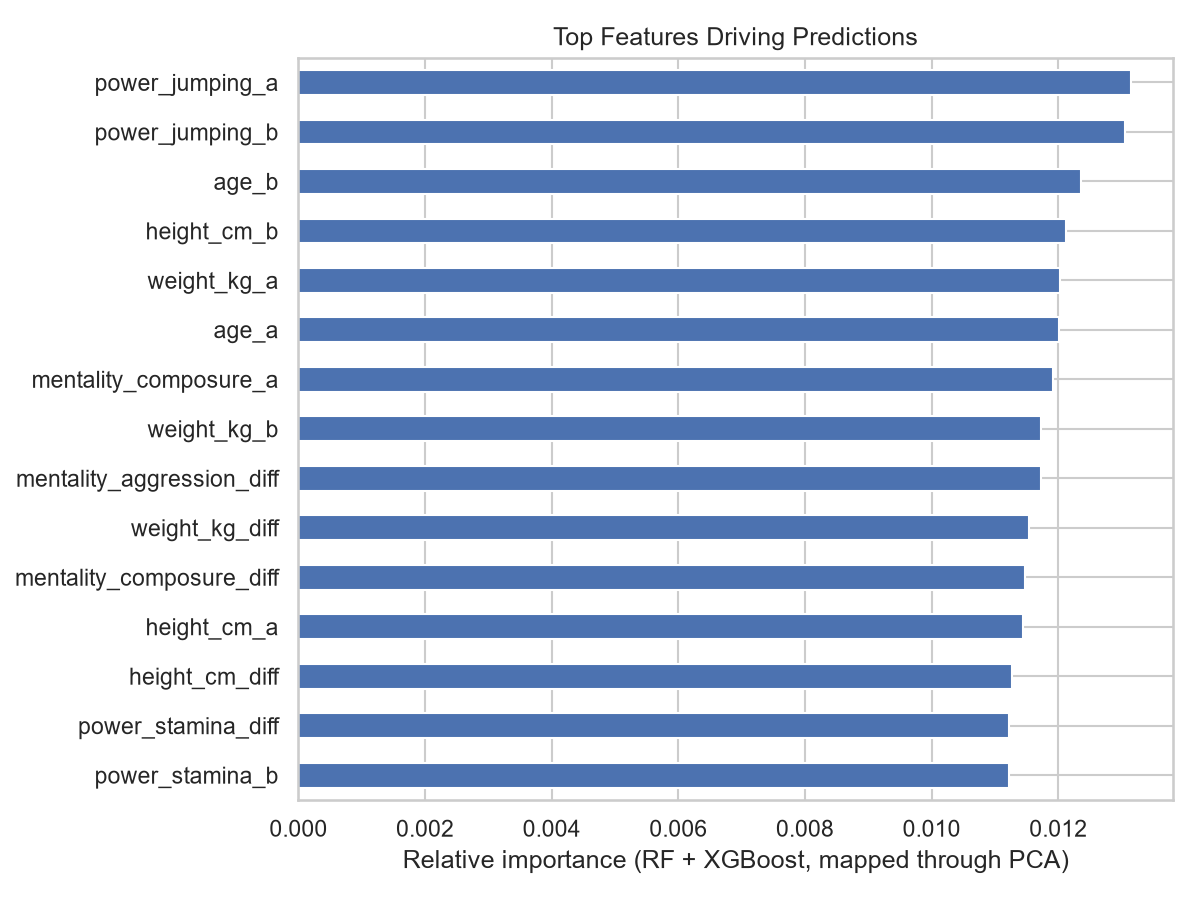
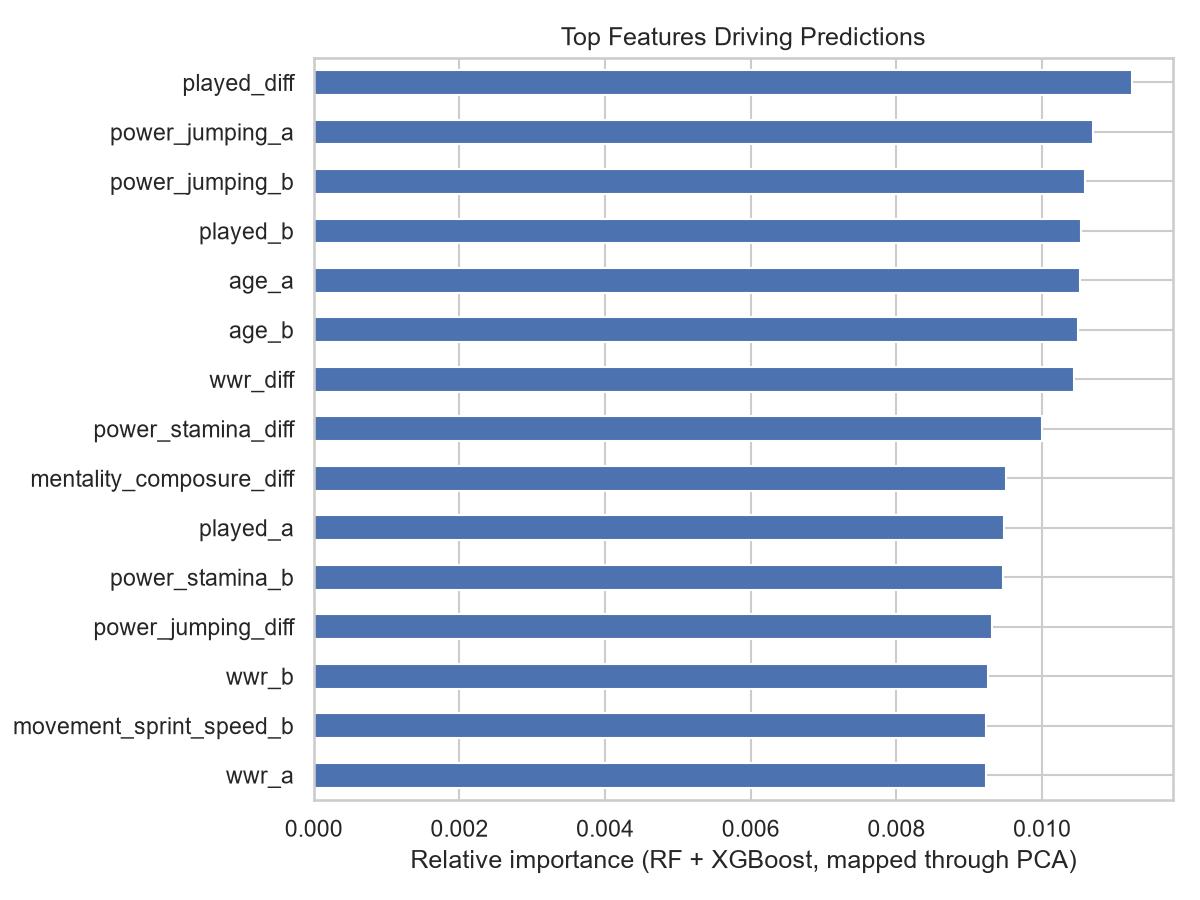
Update README, CLAUDE.md and figures for the new results
Numbers the previous commit invalidated: ensemble 75.5% -> 78.5% +/- 2.0%
against the baseline's 74.8%, ahead on 5 of 5 seeds rather than 2; feature
count 111 -> 130; 2026 bracket 73.3% -> 76.7%; McNemar now 1 of 5 seeds
under p<0.05 rather than none.

The README gains a "How it got there" section recording what each of the
three changes was worth on its own, including the one that did not work --
mirroring every training row rather than only the neutral-venue ones.
Figures regenerated; the history features show up in the importance chart.

The two forward predictions flipped with the new features: England for
third place (56%) and Spain over Argentina in the final (54%). Both were
coin flips before and still are.

CLAUDE.md documents the two constraints that are easy to break silently:
mirroring must stay restricted to neutral rows and must happen after the
split, and history features must stay as-of-date -- including not reusing
the pipeline's final HistoryState to score historical fixtures.

diff --git a/README.md b/README.md
@@ -160,7 +160,8 @@ safe to re-run.
 - [x] Repo scaffolding
 - [x] Data collection (real Kaggle datasets connected: player attributes 2015–2025 — FIFA 15–23,
   EA FC 24 from the same author, EA FC 25 mapped via `src/data/adapters.py` — match history 1872–present)
-- [x] Feature engineering (1749 team-year profiles, 111 raw features -> 26–27 PCA components at 95% variance, depending on the split)
+- [x] Feature engineering (1749 team-year profiles, 130 raw features -> ~30 PCA components at 95% variance, depending on the split):
+  111 squad-attribute columns, 18 as-of-date match-history columns (`src/features/history_features.py`), and a neutral-venue flag
 - [x] Baseline (WWR) — fit on full World Cup history (finals + qualifiers), test-leakage safe
 - [x] Ensemble models — 5-model majority vote, trained end-to-end on real data (1495 usable matches)
 - [x] Evaluation — accuracy, high/low-scoring split, challenging cases, validated across 5 random seeds
@@ -170,18 +171,55 @@ safe to re-run.
 - [x] Web app (Phase 8) — FastAPI backend (`api/`) + React frontend (`frontend/`): live team-vs-team prediction and an interactive results dashboard
 
 **Latest results** (1495 World Cup matches incl. qualifiers, 5-seed average): ensemble
-75.5% ± 2.5% overall accuracy vs. baseline 74.8% ± 2.8% — see `outputs/figures/`.
-The ensemble is ahead on only 2 of the 5 seeds; per-seed margins range from -2.3 to +4.3 points,
-so the mean advantage rests on two good seeds rather than a consistent edge.
+**78.5% ± 2.0%** overall accuracy vs. baseline 74.8% ± 2.8% — see `outputs/figures/`.
+The ensemble finishes ahead on all 5 seeds, by between 1.7 and 6.7 points.
 Run `python -m src.pipeline` to reproduce, or `python -m src.make_figures` to
 regenerate the figures.
+
+#### How it got there
+
+The ensemble originally scored 75.5% ± 2.5% against the baseline's 74.8% — ahead on only
+2 of 5 seeds, and behind on the seed the API serves. The two models were built on disjoint
+information: the ensemble knew squads and nothing about results, the baseline knew results
+and nothing about squads. They disagreed on about a third of matches, and on the matches the
+baseline got wrong the ensemble was right 44% of the time — a perfect router between the two
+would have scored 85.9%. The ensemble had simply never been given what the baseline knows.
+
+Three changes, each measured on its own across all 5 seeds:
+
+| | accuracy | margin over baseline | seeds ahead |
+|---|---|---|---|
+| Starting point | 75.5% ± 2.5% | +0.7 pp | 2 / 5 |
+| \+ `neutral_site` feature | 76.3% ± 2.3% | +1.5 pp | 3 / 5 |
+| \+ as-of-date history features | 78.1% ± 3.0% | +3.3 pp | 4 / 5 |
+| \+ neutral-only row mirroring | **78.5% ± 2.0%** | **+3.7 pp** | **5 / 5** |
+
+- **History features** (`src/features/history_features.py`) give the model Elo, the baseline's
+  own weighted win ratio, matches played, head-to-head record and recent form. Every value is
+  computed *as of the match date* from matches strictly earlier than it, so leak-freedom is
+  structural rather than a property of the split — same-day fixtures cannot see each other
+  either. They are built from the full international record, not just World Cup matches,
+  because Elo and form need volume.
+- **`neutral_site`** matters on its own. Qualifiers are played home-and-away and the home side
+  wins 63.1% of them; on neutral ground it is 48.6%. Without the flag the model blends the two
+  and applies a phantom home advantage to every neutral-venue fixture — which is every match at
+  the tournament itself.
+- **Mirroring** (appending a side-swapped copy of a training row with the label flipped) only
+  pays off restricted to neutral fixtures. Mirroring everything *cost* ~2 points, since
+  asserting that the away side of a qualifier had home advantage is simply false. Restricted to
+  rows where the ordering really is arbitrary it adds 0.4 points and cuts seed-to-seed spread
+  from 3.0 to 2.0 — which is what turns "ahead on 4 of 5 seeds" into "ahead on all 5".
+
+Per-seed McNemar is still mostly not significant (1 of 5 seeds at p<0.05, p ranging 0.005–0.52,
+n=299 per test set). What changed is that the margin is positive on every seed rather than two.
 
 ### Held-out test: the 2026 World Cup knockout bracket
 
 `results.csv` contains the 2026 World Cup, but `data.years` deliberately stops at **2025**, so
 no 2026 match reaches the ensemble or the WWR baseline. Team strength comes from EA FC 25
-squad ratings, published before the tournament began on 2026-06-11. That makes the knockout
-bracket a genuine out-of-sample test rather than a cross-validation fold:
+squad ratings, published before the tournament began on 2026-06-11, and the history features
+are cut at that same kickoff date — so a 2026 result cannot inform a 2026 prediction. That
+makes the knockout bracket a genuine out-of-sample test rather than a cross-validation fold:
 
 ```bash
 python -m src.backtest_wc2026
@@ -189,35 +227,36 @@ python -m src.backtest_wc2026
 
 | Round | Ties | Ensemble | Baseline |
 |---|---|---|---|
-| Round of 32 | 16 | 75% | 50% |
+| Round of 32 | 16 | 81% | 50% |
 | Round of 16 | 8 | 75% | 88% |
 | Quarter-finals | 4 | 100% | 100% |
 | Semi-finals | 2 | 0% | 50% |
-| **Overall** | **30** | **73.3%** | **66.7%** |
+| **Overall** | **30** | **76.7%** | **66.7%** |
 
-73.3% out of sample sits within the cross-validated 75.5% ± 2.5%, which is the main evidence
+76.7% out of sample sits within the cross-validated 78.5% ± 2.0%, which is the main evidence
 that the model generalises rather than fitting its own test splits. Two caveats keep it honest:
-with n=30 the 95% interval is ±15.8%, so the 6.7-point margin over the baseline is **not**
+with n=30 the 95% interval is ±15.1%, so the 10-point margin over the baseline is **not**
 statistically significant; and 4 of the 30 ties were decided on penalties, which the model has
 no way to represent — it predicts a 90-minute winner and is scored against the shootout result.
 
 The model got both semi-finals wrong, picking France over Spain and England over Argentina.
 
 Neither the third-place playoff nor the final has a recorded score in this dataset, so both are
-genuine forward predictions: **France** to finish third (55%), and **Argentina** to beat Spain
-in the final (52%) — barely above a coin flip, which is the correct amount of conviction for a
+genuine forward predictions: **England** to finish third (56%), and **Spain** to beat Argentina
+in the final (54%) — barely above a coin flip, which is the correct amount of conviction for a
 World Cup final between those two.
 
 **Beyond overall accuracy**, `python -m src.pipeline` also reports (console + `report.attrs`):
 - Per-model accuracy for each of the 5 base classifiers, before the majority vote
 - Precision / recall / F1 / ROC-AUC (accuracy alone hides the home-win class imbalance)
-- McNemar's test on paired baseline-vs-ensemble predictions — the ~0.7-point accuracy
-  gap is **not statistically significant** at p<0.05 on any single seed (per-seed p-values
-  range from 0.12 to 1.00; honest finding, not swept under the rug — see the report's
-  Discussion section)
+- McNemar's test on paired baseline-vs-ensemble predictions — the ~3.7-point accuracy
+  margin reaches p<0.05 on only 1 of the 5 seeds (per-seed p-values range from 0.005 to
+  0.52; honest finding, not swept under the rug — see the report's Discussion section).
+  With ~299 test rows per seed the test is underpowered for a gap this size; the stronger
+  evidence is that the margin is positive on all 5 seeds
 - Ensemble accuracy broken down by vote agreement (3/5, 4/5, 5/5 of the base models agreeing)
 - Feature importance (Random Forest + XGBoost, mapped back from PCA-component space to
-  the original 108 engineered features) — an approximation, since PCA components have no
+  the original 130 engineered features) — an approximation, since PCA components have no
   direct real-world meaning
 
 ## Reference
